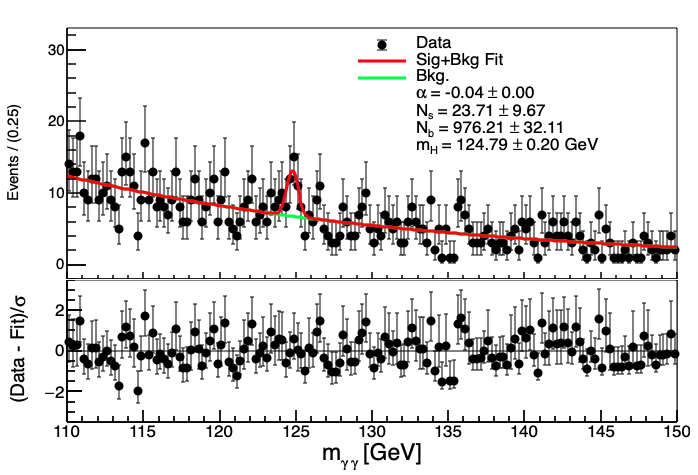
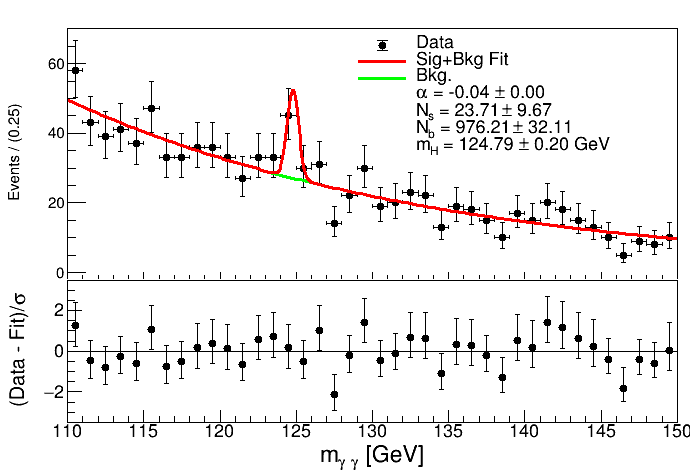
Últimos cambios: corrección bineado de datos.

diff --git a/Higgs/HiggsWS/HiggsModel.C b/Higgs/HiggsWS/HiggsModel.C
@@ -108,7 +108,7 @@ void HiggsModel() {
     RooPlot *Hframe = hgg_mass->frame();
 
     // Data
-    hgg_data->plotOn(Hframe,RooFit::Binning(160), Name("data")); 
+    hgg_data->plotOn(Hframe,RooFit::Binning(40), Name("data")); 
 
     // Model
     model.plotOn(Hframe,RooFit::Components("exp"),RooFit::LineColor(kGreen), Name("bkg"));
@@ -126,7 +126,7 @@ void HiggsModel() {
     Hframe->SetTitleOffset(0.8, "Y");
     Hframe->SetTitleSize(0.06, "XY");
     Hframe->SetMinimum(-2);
-    Hframe->SetMaximum(33);
+    //Hframe->SetMaximum(33);
     Hframe->Draw();
     gStyle->SetOptTitle(0/1);
 

diff --git a/Higgs/HiggsFactory/HiggsModelFactory.C b/Higgs/HiggsFactory/HiggsModelFactory.C
@@ -106,7 +106,7 @@ void HiggsModelFactory() {
     TCanvas *MC_canvas = new TCanvas("Estudio MC", "Estudio MC", 600, 600);
 
     RooMCStudy *ToyMC = new RooMCStudy(*(wspace->pdf("model")), *hgg_mass, Binned(false), Silence(true), Extended(true), FitOptions(Save(true), PrintEvalErrors(0)));            
-    ToyMC->generateAndFit(1000);
+    ToyMC->generateAndFit(500);
 
     RooPlot *meanFrame = ToyMC->plotPull(*(wspace->var("mean")), Bins(40), FitGauss(true));
     meanFrame->Draw();
